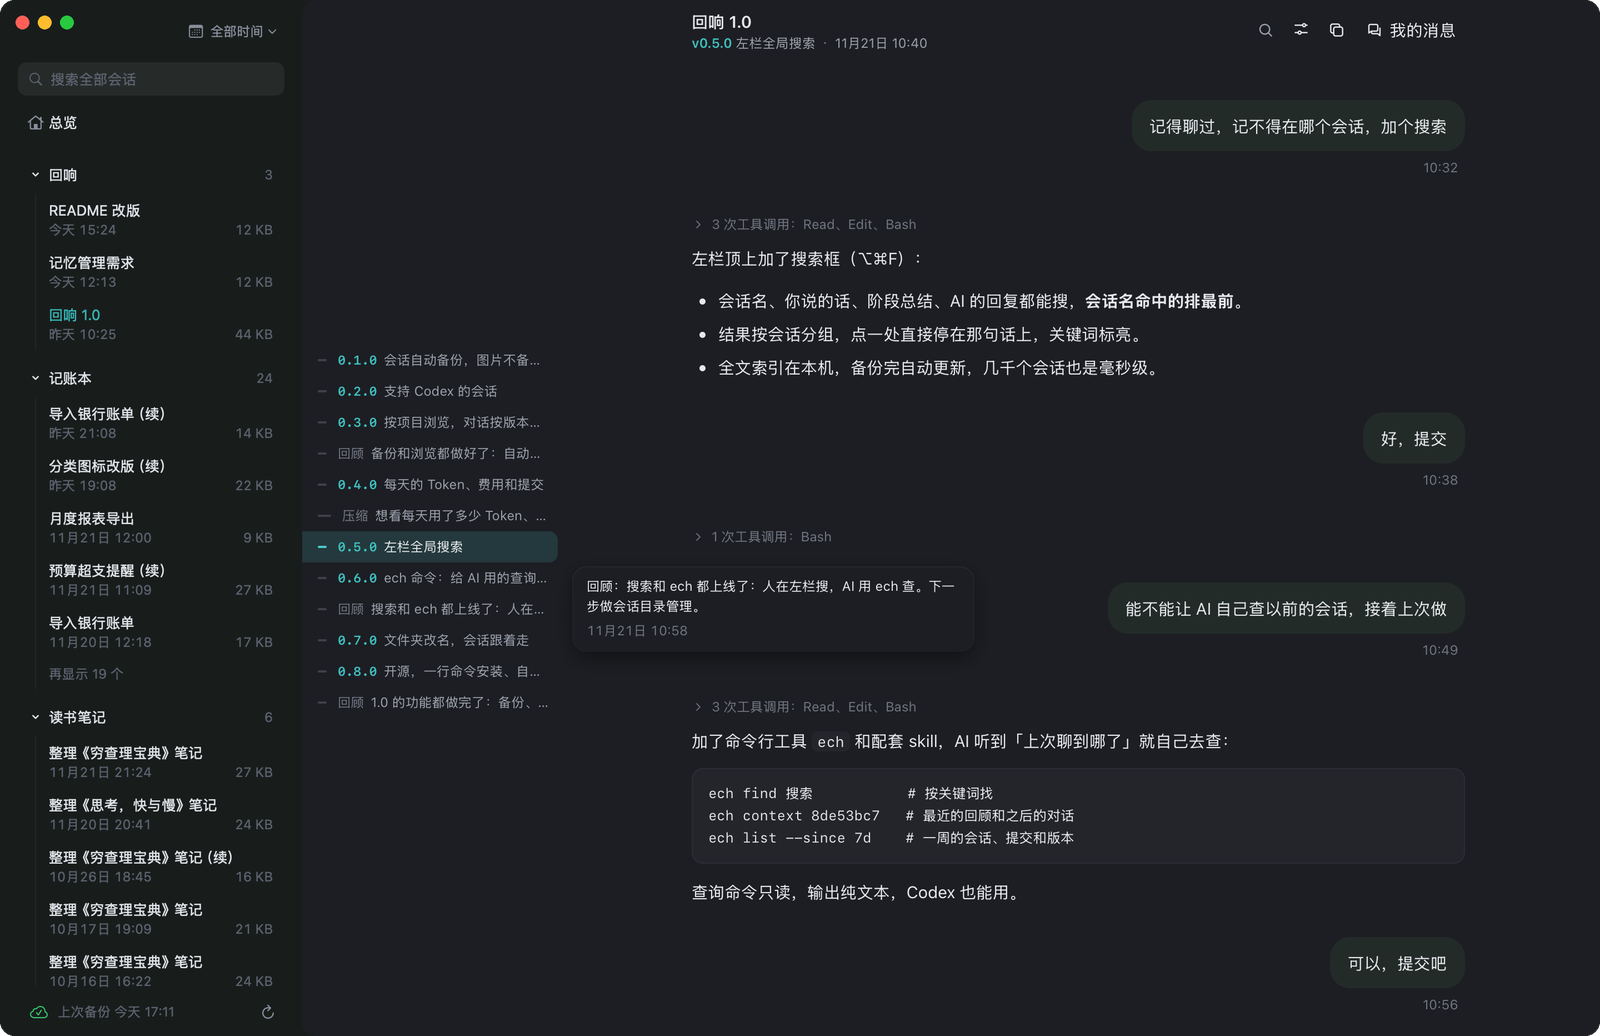
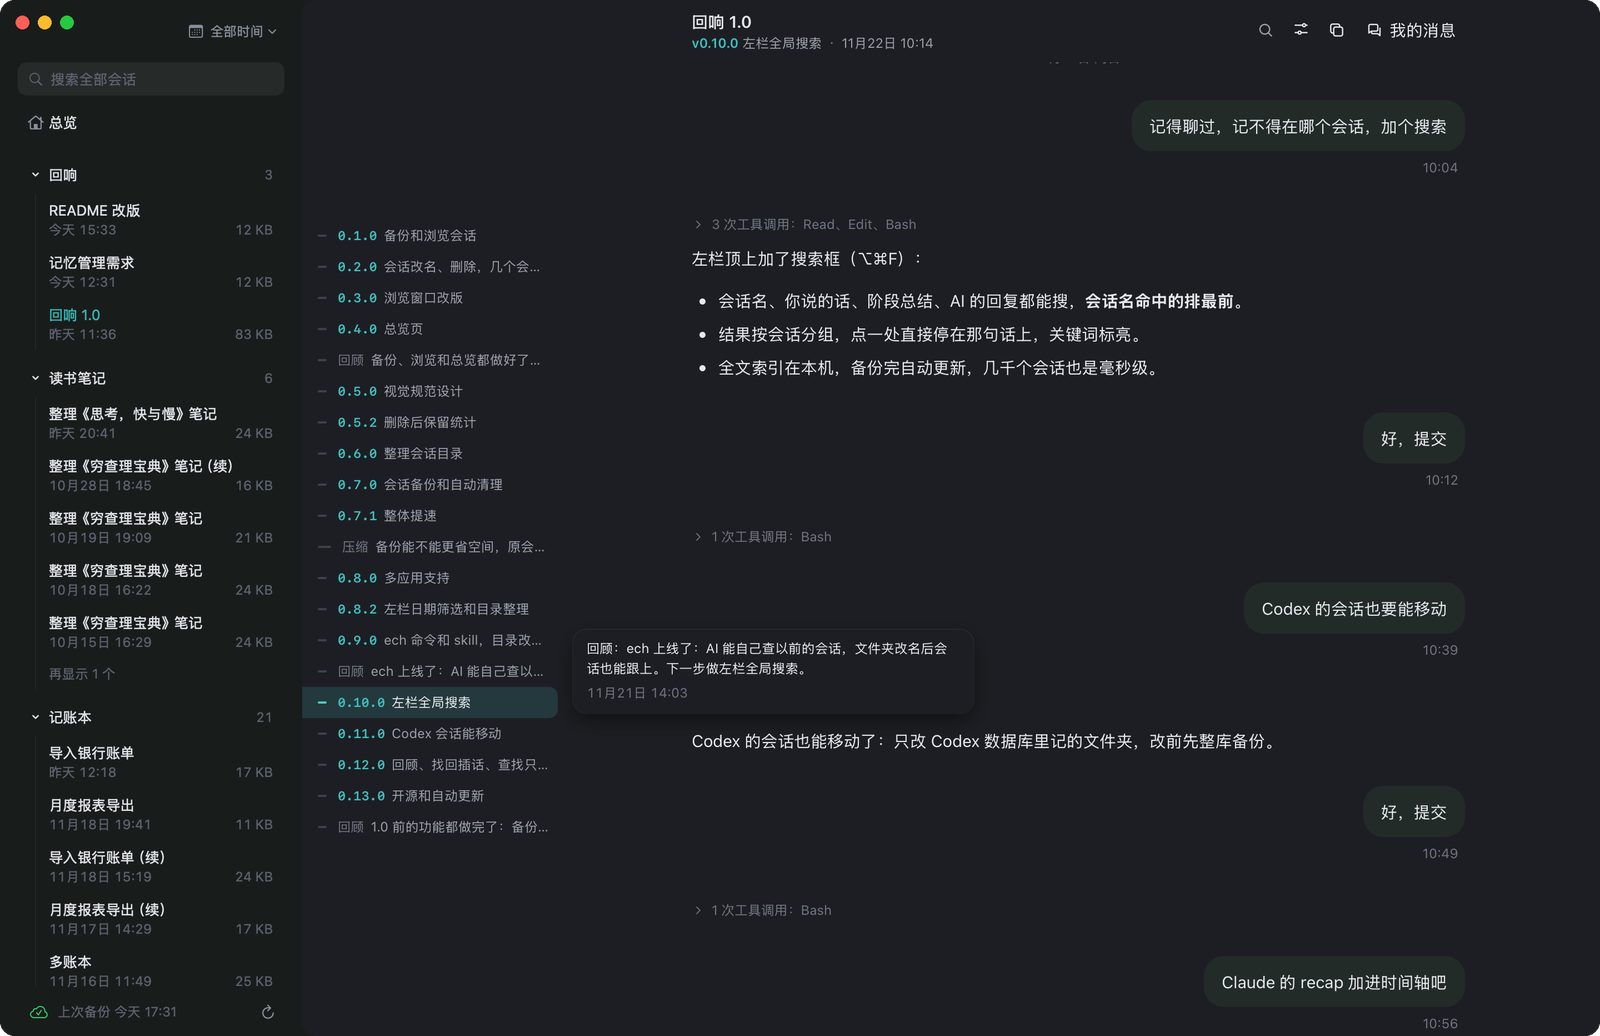
README 文风统一成短句，首屏换成真实版本的演示会话
演示会话的版本和标题照 CHANGELOG：0.1.0 备份和浏览会话到 0.13.0 开源和自动更新；
终端示意图照 Claude Code 的样子画，访达示意图照列表视图画。

diff --git a/README.md b/README.md
@@ -4,7 +4,7 @@
 
 <p align="center">你和 AI 聊过的，回响都记得。</p>
 
-<p align="center">Claude Code、Codex 会话的备份、回看和检索，AI 也能自己查。<br>Mac 应用，开源免费，本地安全存储。</p>
+<p align="center">把 Claude Code、Codex 的会话自动存下来，你能翻能搜，AI 也能自己查。<br>开源免费的 Mac 应用，数据只存在你自己的电脑和 iCloud 里。</p>
 
 <p align="center"><a href="#安装">安装</a> · <a href="README.en.md">English</a></p>
 
@@ -12,108 +12,107 @@
 
 <p align="center"><picture><source media="(prefers-color-scheme: dark)" srcset="docs/overview-dark.png"><img src="docs/overview-light.png" width="100%" alt="总览：每天的 Token、费用、消息数、AI 时长和提交，日历和每天的会话"></picture></p>
 
-- **自动备份**：自动备份 Claude Code 和 Codex 的会话，不会被 30 天清理掉；备份比原会话小 80%，几台 Mac 的会话都能看到
-- **按版本回看**：长会话按版本和回顾分好段，点一下就跳到当时的对话
-- **全局搜索**：在全部会话里搜会话名、你说过的话和 AI 的回复，几毫秒就能找到
-- **ech**：AI 可以自己查以前的会话，接着上次的进度做
-- **目录管理**：给文件夹改名或移动位置后，里面的会话会跟着过去
+- **自动备份**：会话不会再被 30 天清理掉，备份比原会话小 80%，几台 Mac 的会话都能看
+- **按版本回看**：长会话按版本分好段，点一下就回到当时
+- **全局搜索**：输入关键词，几毫秒找到当时的原话
+- **ech**：AI 能自己查以前的会话，接着上次的进度做
+- **目录管理**：给文件夹改名或挪位置，会话会跟着过去
 
 ## 自动备份
 
-回响开机后在后台运行，把 Claude Code 和 Codex 的会话都备份下来，不会被清理掉，换一台电脑也能看到。
+回响在后台运行，自动备份 Claude Code 和 Codex 的会话。会话不会再被清理掉，换一台电脑也能看到。
 
-- 不备份图片和思考过程，工具调用的细节 30 天后换成占位，对话全文永久保留；备份比原会话小 80% 以上
-- 写入备份前给密钥和令牌打码
-- 备份放在 iCloud 云盘里，每台电脑一个文件夹，回响把几台 Mac 的会话合在一起看
-- 回响确认备份完整后，把很久没用的会话从 Claude Code 和 Codex 里移到废纸篓，原来的文件夹不会越攒越大
+- 只留对话全文，图片和思考过程不备份，工具调用的细节 30 天后换成占位，备份比原会话小 80% 以上
+- 密钥和令牌在写入前打码
+- 备份放在 iCloud 云盘，每台电脑一个文件夹，几台 Mac 的会话合在一起看
+- 很久没用的会话，确认备份完整后移到废纸篓，原来的文件夹不会越攒越大
 
 <p align="center"><img src="docs/how-archive.svg" width="100%" alt="自动备份、精简打码，几台 Mac 汇到一起，一搜就找到原话"></p>
 
 ## 按版本回看
 
-一个项目的会话动辄几千轮、压缩好几次。回响按版本把它分好段，你可以从头看到尾，复盘和交接时都能讲清楚。
+一个项目的会话常常有几千轮，中间还压缩过好几次。回响按版本把它分成段，复盘、交接时从头看一遍就清楚。
 
-- 回响按 git 提交里的版本号、手动压缩和 Claude 的回顾给对话分段；点左侧要点栏就跳到当时，鼠标停在上面能看全文
-- 标题栏写着会话名，下面一行写你正读到哪个版本
-- 右侧「我的消息」按天列出你发过的每一条，点一条就定位到那里
-- 思考过程和工具调用默认收成一行，需要时再点开
+- 按 git 提交里的版本号、手动压缩和 Claude 的回顾分段，点左边的要点就跳过去，悬停能看全文
+- 标题栏下面一行写着你正在读的版本
+- 右边「我的消息」按天列出你发过的每一条，点一下就定位过去
+- 思考过程和工具调用默认收成一行，要看再点开
 
 ## 全局搜索
 
-你记得聊过某件事，但记不得在哪个会话里，按 ⌥⌘F 搜一下就能找到。
+记得聊过，却想不起在哪个会话？按 ⌥⌘F 搜一下。
 
-- 能搜会话名、你说的话、阶段总结和 AI 的回复，会话名命中的排在最前面
-- 搜索结果按会话分组，点一处就停在那句话上，关键词会标亮
-- 全文索引存在本机，每次备份完自动更新，几千个会话也能在几毫秒内搜完
+- 搜索范围包括会话名、你说的话、阶段总结和 AI 的回复，会话名命中的排在最前
+- 结果按会话分组，点一条就停在那句话上，关键词会标亮
+- 索引存在本机，备份完自动更新，几千个会话也是几毫秒出结果
 
 <p align="center"><picture><source media="(prefers-color-scheme: dark)" srcset="docs/search-dark.png"><img src="docs/search-light.png" width="100%" alt="左栏搜索「备份」，按会话列出命中处，正文里标亮"></picture></p>
 
 ## ech：给 AI 用的回响
 
-新开一个会话说「接着上次那个做」，AI 自己去回响里查上次做到哪，你不用再交代一遍背景。
+新开一个会话，说一句「接着上次那个做」，AI 会自己去回响里查上次做到哪，不用你再讲一遍背景。
 
-- 装好回响就有 `ech` 命令和配套的 skill，Claude Code 和 Codex 都能用
-- 你问「上次聊到哪了」「以前为什么这么定」，AI 会自己去查；这些查询只读，不改任何东西
-- ech 输出纯文本，比让 AI 直接读原会话文件快得多，也省 Token
+- 装好回响就带了 `ech` 命令和配套的 skill，Claude Code 和 Codex 都能用
+- 你问「上次聊到哪了」「当时为什么这么定」，AI 会自己去查；查询只读，不会改动任何文件
+- 输出是纯文本，比让 AI 直接读原会话快得多，也更省 Token
 
 <p align="center"><img src="docs/how-ech.svg" width="100%" alt="你说接着上次那个做，AI 用 ech 在回响里查到上次的回顾，接着往下做"></p>
 
-写周报也一样：一句话，AI 用 `ech list` 拿到一周里几台电脑、几家 AI 的全部会话、提交和版本，按项目写出来。
+写周报也是一句话的事。AI 用 `ech list` 拿到一周里所有电脑、所有 AI 的会话、提交和版本，按项目整理出来。
 
 <p align="center"><img src="docs/how-weekly.svg" width="100%" alt="在 Claude Code 里说写一下上周的周报，AI 用 ech list 拿到两台电脑上 Claude Code、Codex 一周的会话、提交和版本，按项目写成周报"></p>
 
-
 ## 会话目录管理
 
-给文件夹改名或挪位置后，里面的会话会跟着过去，Claude Code 在新位置照样能 `/resume`。
+给文件夹改名或挪了位置，里面的会话会跟着过去，Claude Code 在新位置照样能 `/resume`。
 
-- 在左栏的目录上右键，可以改名或移动到别处；也可以把会话拖到别的文件夹
-- 如果你在访达或 NAS 上改过文件夹名，左栏会标出「已不存在」；右键选「找到新位置…」，回响按名字找到新文件夹，一步接上
-- Codex 的会话也能移动；AI 整理目录时用 `ech mv`，会把会话一起带走
-- 会话可以改名和删除，删除的会话都移到废纸篓，随时能放回
+- 在左栏目录上右键就能改名、移动，也可以把会话直接拖进别的文件夹
+- 在访达或 NAS 上改过名的文件夹，左栏会标「已不存在」。右键选「找到新位置…」，回响按名字找到新文件夹，一步接上
+- Codex 的会话也能移动。AI 整理目录时用 `ech mv`，会把会话一起带走
+- 会话可以改名、删除，删掉的会话进废纸篓，随时能放回
 
 <p align="center"><img src="docs/folders.png" width="100%" alt="「旧官网」在访达里改了名，左栏标出已不存在；右键「找到新位置…」匹配到「官网改版」，确认后把 2 个会话移过去"></p>
 
 ## 总览
 
-总览里能看到每天用了多少 Token、折合多少钱、AI 干了多久，以及做了哪些提交和版本。
+每天用了多少 Token、花了多少钱、AI 干了多久、做了哪些提交和版本，在总览里一眼看清。
 
-- 卡片上写着本周的 Token、消息数、AI 时长和提交数，以及和上周比涨了还是跌了
-- 从日历上一眼能看出哪几天最忙，点一天就展开那天的会话
-- 回响把 git 提交和版本挂到对应的会话上；会话删掉了，统计照样算在总览里
+- 顶部卡片是本周的 Token、消息数、AI 时长和提交数，并和上周对比
+- 日历标出哪几天最忙，点一天就展开当天的会话
+- 每次提交和版本都挂在对应的会话上。删掉的会话，统计仍然保留
 
 ## 安装
 
-在终端里运行：
+在终端里运行这一行：
 
 ```bash
 curl -fsSL https://raw.githubusercontent.com/cyanext/Echo/main/install.sh | zsh
 ```
 
-会下载最新版装到 `~/Applications` 并打开。也可以到 [Releases](https://github.com/cyanext/Echo/releases) 下载 `Echo-<版本>.zip`，解压后把「回响」拖到「应用程序」；用浏览器下载的，第一次打开如果提示「无法验证开发者」，到「系统设置 > 隐私与安全性」底部点「仍要打开」。
+它会下载最新版，装到 `~/Applications` 并打开。也可以到 [Releases](https://github.com/cyanext/Echo/releases) 下载 `Echo-<版本>.zip`，解压后把「回响」拖进「应用程序」。用浏览器下载的，第一次打开会提示「无法验证开发者」，到「系统设置 › 隐私与安全性」底部点「仍要打开」就行。
 
-需要 macOS 14 或更新的版本、Apple 芯片。第一次打开按引导选好备份位置、要备份的应用和清理规则，macOS 询问能否访问文件夹时点「允许」。
+需要 Apple 芯片的 Mac、macOS 14 或更新版本，目前支持 Claude Code 和 Codex 的会话。第一次打开时，按引导选好备份位置、要备份的应用和清理规则；macOS 问能不能访问文件夹时，点「允许」。
 
 ## ech 命令
 
 | 命令 | 做什么 |
 |---|---|
-| `ech find <关键词>` | 在全部会话里找，按会话列出命中处，每处带一个引用（`会话#段号`）；`--app`、`--since`、`--project` 过滤，`--tools` 连工具调用一起找 |
-| `ech segs <会话>` | 会话的分段：起止时间、提交的版本、每段第一句话 |
-| `ech read <会话>#<段号>` | 读一段对话的原文；`#L1200-1500` 按行读，`--tools` 带上工具输出 |
-| `ech context <会话>` | 续上一个会话：最近的回顾、阶段总结和之后的全部对话 |
-| `ech list --since 7d` | 按时间列会话、我的消息、Token、提交和版本；日期也能写 `2026-11-16`、`11-16` |
-| `ech mv <旧路径> <新路径>` | 改文件夹名或移动文件夹，本机的会话随之移动；`--dry-run` 预览 |
+| `ech find <关键词>` | 在全部会话里搜关键词，按会话列出命中的地方，每处附一个引用（`会话#段号`）。可以用 `--app`、`--since`、`--project` 过滤，加 `--tools` 连工具调用一起搜 |
+| `ech segs <会话>` | 列出会话的分段：起止时间、提交的版本、每段第一句话 |
+| `ech read <会话>#<段号>` | 读一段对话原文。`#L1200-1500` 按行读，加 `--tools` 带上工具输出 |
+| `ech context <会话>` | 接上一个会话：给出最近的回顾、阶段总结和之后的全部对话 |
+| `ech list --since 7d` | 按时间列出会话、我的消息、Token、提交和版本。日期也能写成 `2026-11-16`、`11-16` |
+| `ech mv <旧路径> <新路径>` | 给文件夹改名或移动，本机的会话跟着过去。加 `--dry-run` 先预览 |
 | `ech backup` / `ech index` | 立即备份并更新索引 / 只更新索引和总览数据 |
-| `ech schema [命令]` | 各命令的参数（JSON），给 AI 看 |
+| `ech schema [命令]` | 列出各命令的参数（JSON），给 AI 看 |
 
-输出纯文本，一页最多 8000 字，`--page` 翻页，`--json` 给脚本用。配套 skill 装在 `~/.claude/skills/ech`，本机有 Codex 时也装到 `~/.codex/skills/ech`。
+输出是纯文本，一页最多 8000 字，用 `--page` 翻页，加 `--json` 给脚本用。配套的 skill 装在 `~/.claude/skills/ech`，本机装了 Codex 时也会装到 `~/.codex/skills/ech`。
 
 ## 数据安全
 
-- 只读 `~/.claude`、`~/.codex` 里的会话，会话内容一行不改。只有你点了改名、删除、移动，或开着自动清理时，才会改动会话文件；删除一律移到废纸篓。
-- 备份只写到你选的文件夹，除了 iCloud 不传到任何地方。
-- 联网只有两处，都只发一个请求，不带任何本机信息：每周下载一次公开的模型价格表，每天检查一次新版本（可在设置里关掉）。
+- 回响只读取 `~/.claude`、`~/.codex` 里的会话，不改动内容。只有你改名、删除、移动会话，或开启了自动清理时，才会动会话文件，删除一律进废纸篓。
+- 备份只写到你选的文件夹。除了 iCloud，不会传到任何地方。
+- 只有两处联网，都只发一个请求，不带任何本机信息：每周下载一次公开的模型价格表；每天检查一次新版本，可以在设置里关掉。
 
 ## 从源码编译
 

diff --git a/README.en.md b/README.en.md
@@ -4,7 +4,7 @@
 
 <p align="center">Everything you've talked through with AI, remembered.</p>
 
-<p align="center">Backup, timeline review and search for Claude Code and Codex sessions, and your AI can look them up too.<br>A free, open-source Mac app. Your sessions are stored locally and safely.</p>
+<p align="center">Echo keeps your Claude Code and Codex sessions so you can browse and search them, and your AI can look them up too.<br>A free, open-source Mac app. Your data stays on your own Mac and in your iCloud.</p>
 
 <p align="center"><a href="#install">Install</a> · <a href="README.md">中文</a></p>
 
@@ -93,7 +93,7 @@ curl -fsSL https://raw.githubusercontent.com/cyanext/Echo/main/install.sh | zsh
 
 This installs the latest release to `~/Applications` and opens it. You can also download `Echo-<version>.zip` from [Releases](https://github.com/cyanext/Echo/releases) and drag Echo to Applications; if macOS says it can't verify the developer on first launch, go to System Settings > Privacy & Security and click "Open Anyway".
 
-Requires macOS 14 or later on Apple silicon. On first launch, choose the backup location, the apps to back up and the cleanup rules; click "Allow" when macOS asks for folder access.
+Requires an Apple silicon Mac with macOS 14 or later. Supports Claude Code and Codex sessions. On first launch, choose the backup location, the apps to back up and the cleanup rules; click "Allow" when macOS asks for folder access.
 
 ## ech commands
 
